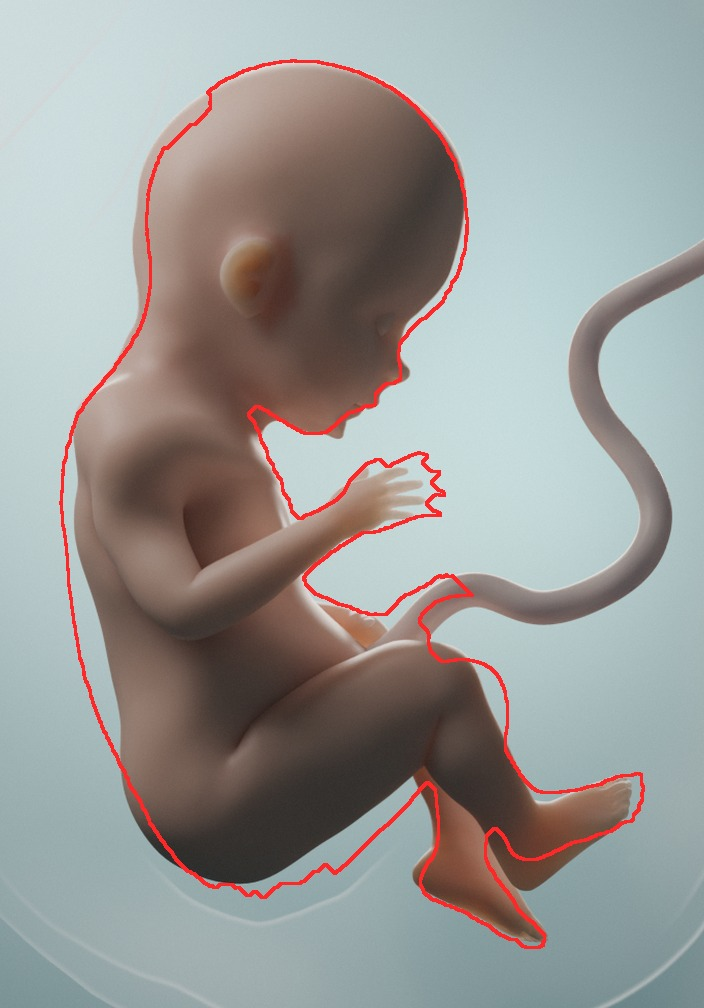
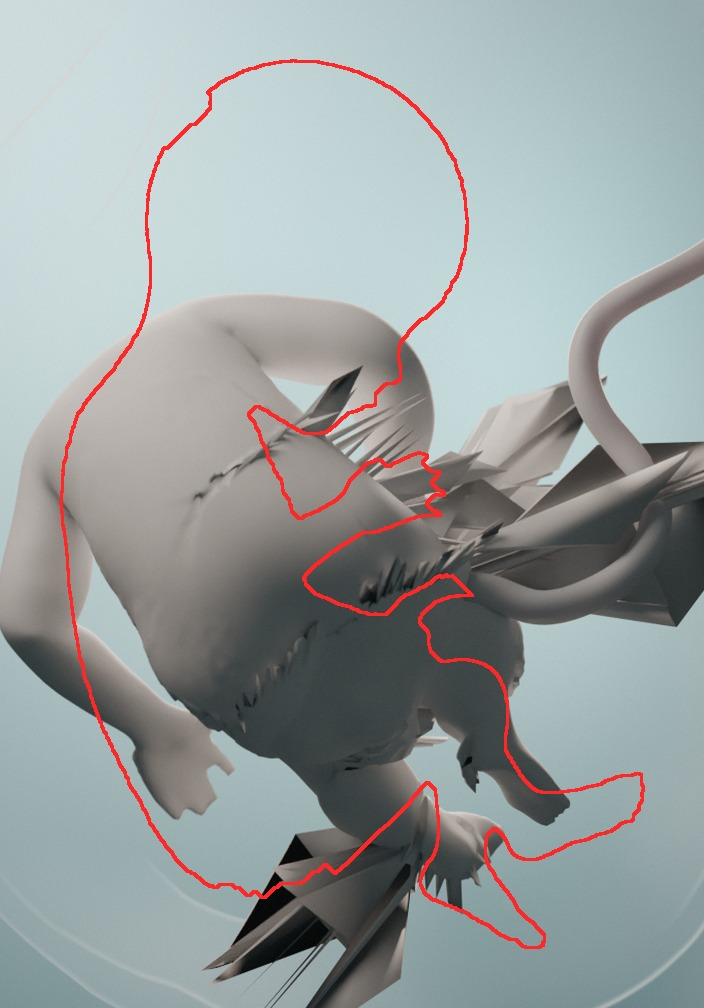
Bake sculpt world transforms before unparenting parts
Claude-Session: https://claude.ai/code/session_012GPESLoAzkgxi7MKnnsx3V

diff --git a/fetal-growth-explorer/blender/scripts/fge/sculpt.py b/fetal-growth-explorer/blender/scripts/fge/sculpt.py
@@ -46,21 +46,16 @@ def import_sculpt(path: Path, name: str = "FET_Sculpt", collection=None):
     meshes = [o for o in new if o.type == "MESH"]
     if not meshes:
         raise RuntimeError(f"no mesh in {path}")
-    for o in new:
-        if o.type != "MESH":
-            continue
-        o.select_set(True)
-    bpy.context.view_layer.objects.active = meshes[0]
-    for o in bpy.context.selected_objects:
-        o.parent = None if o.parent and o.parent.type != "MESH" else o.parent
+    # bake world transforms into the mesh data (before touching parents)
+    world = {o.name: o.matrix_world.copy() for o in meshes}
+    for o in meshes:
+        o.parent = None
+        o.data.transform(world[o.name])
+        o.matrix_world = Matrix.Identity(4)
     bpy.ops.object.select_all(action="DESELECT")
     for o in meshes:
         o.select_set(True)
     bpy.context.view_layer.objects.active = meshes[0]
-    # bake world transforms into the mesh data before joining
-    for o in meshes:
-        o.data.transform(o.matrix_world)
-        o.matrix_world = Matrix.Identity(4)
     others = [o.name for o in new if o.type != "MESH"]
     if len(meshes) > 1:
         bpy.ops.object.join()
